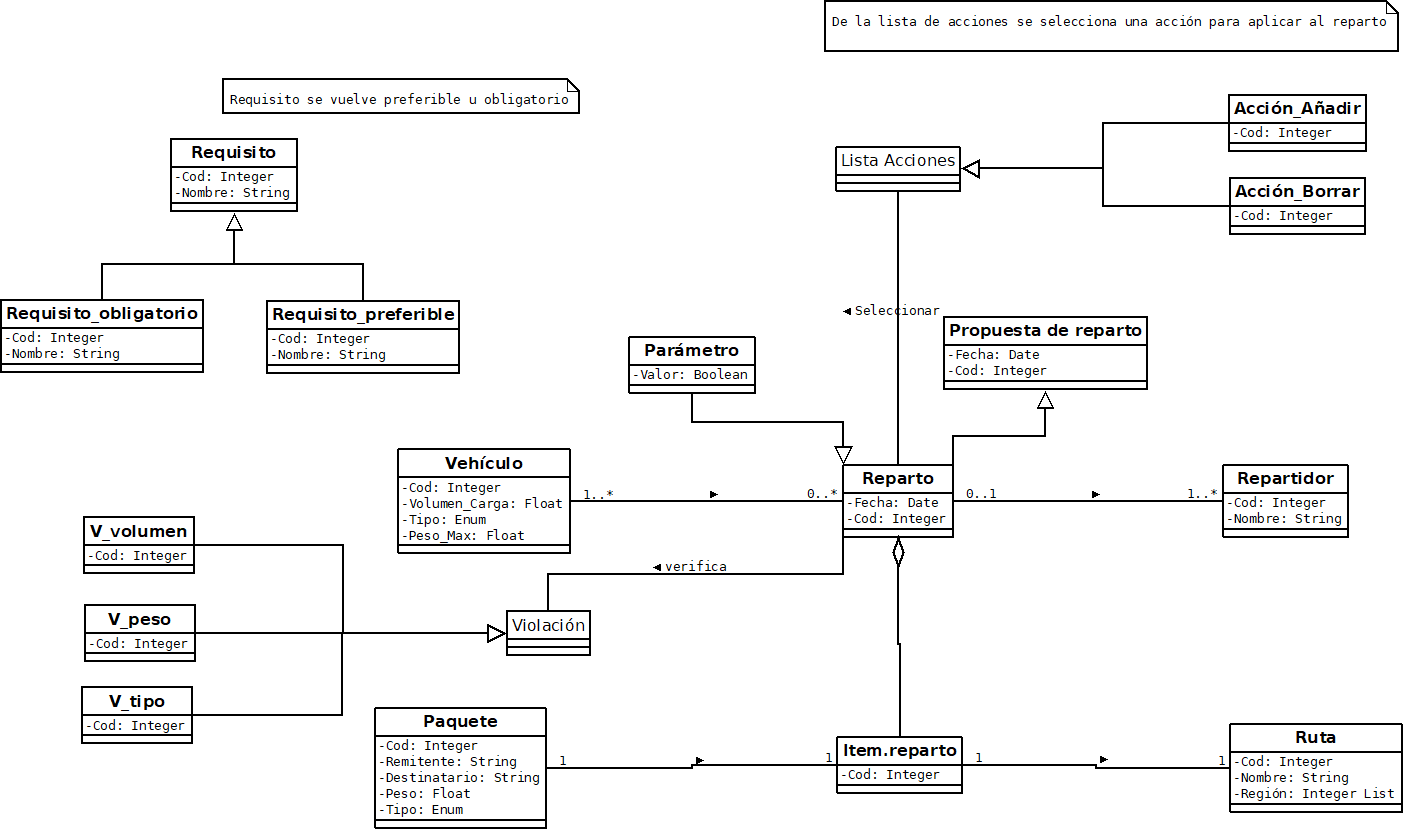
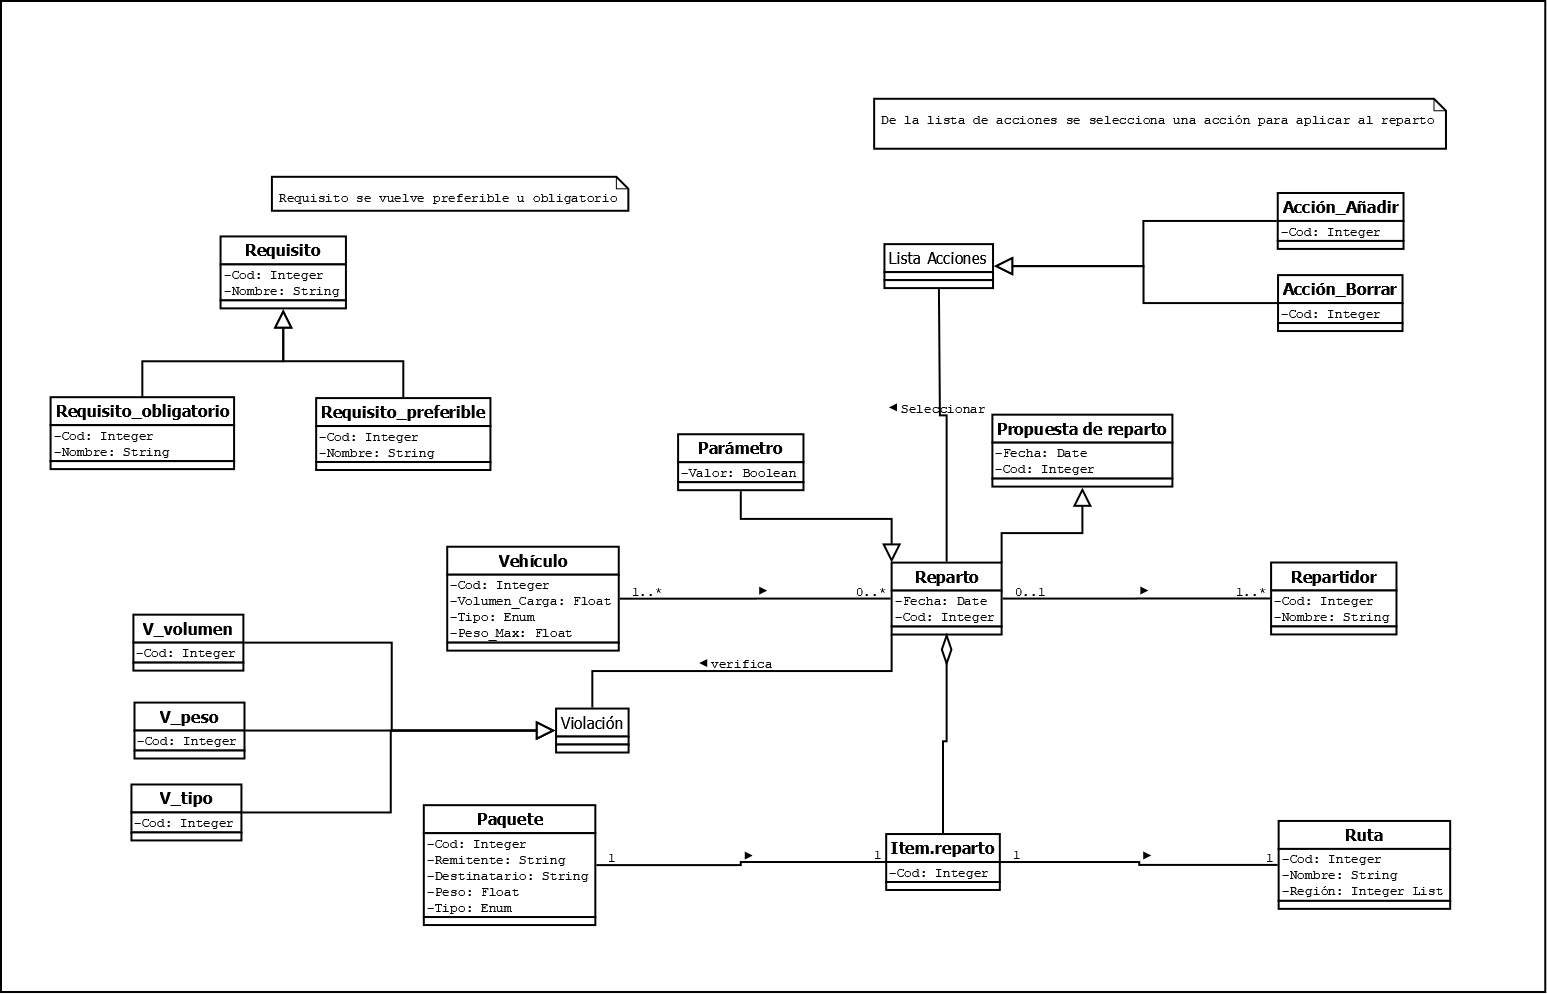
....

diff --git a/contido/Tema_3.tex b/contido/Tema_3.tex
@@ -372,34 +372,33 @@ La Figura \ref{fig:DisenoModificarDiseno} muestra el mapeo de la inferencia \tex
 
 \subsection{Base de conocimiento}
 
-\begin{lstlisting}[language=C,caption=\textbf{Regla de abstraccion}]
+\begin{lstlisting}[language=C,caption=\textbf{Regla\_de\_Traslación}]
   EXPRESSIONS:
-    MercadoForex.Activo.EscenarioActivo.Resistencia.ultimoValor > max(MercadoForex.Activo.EscenarioActivo.Resistencia.historicoDatos) AND MercadoForex.Activo.EscenarioActivo.Resistencia.intentosRuptura > 3
-  Abstraemos
-    MercadoForex.Activo.EscenarioActivo.Resistencia.valorAbstraido = Fuerte
-  END KNOWLEDGE-BASE dependencia-estado;
-  
+    Requisito == Tipo_Requisito_preferible
+  RESULTA_EN:
+    Requisito_preferible
+  END KNOWLEDGE-BASE Regla-translación;
+    
   EXPRESSIONS:
-    MercadoForex.Activo.EscenarioActivo.Resistencia.ultimoValor > max(MercadoForex.Activo.EscenarioActivo.Resistencia.historicoDatos) AND MercadoForex.Activo.EscenarioActivo.Resistencia.intentosRuptura <= 3
-  Abstraemos
-    MercadoForex.Activo.EscenarioActivo.Resistencia.valorAbstraido = Debil
-  END KNOWLEDGE-BASE dependencia-estado;
+    Requisito == Tipo_Requisito_obrigatorio
+  RESULTA_EN:
+    Requisito_obligatorio
+  END KNOWLEDGE-BASE Regla_de_translación;
 \end{lstlisting}
 
 
-\begin{lstlisting}[language=C,caption=\textbf{Regla de abstraccion}]
+\begin{lstlisting}[language=C,caption=\textbf{Regla\_de\_Verificación}]
   EXPRESSIONS:
-    MercadoForex.Activo.valorActual > MercadoForex.Activo.EscenarioActivo.Resistencia.ultimoValor AND MercadoForex.Activo.EscenarioActivo.Resistencia.valorAbstraido = Fuerte
-  CONDICIONA-A
-    Hypothesis = {Ajustar_Riesgo, CerrarOperativa, NoHacerNada}
-  END KNOWLEDGE-BASE dependencia-estado;
-    
+   Reparto.Fecha == fecha_actual AND Reparto.Repartidor.Cod == 1 AND Reparto.Vehiculo.Cod == 1 AND Reparto.pesototal <= Vehiculo.peso_max AND Parametro.valor == false AND Requisitos_obligatorios == Peso
+  RESULTA EN:
+   V_peso 
+  END KNOWLEDGE-BASE Regla_de_Verificación;
+  
   EXPRESSIONS:
-    MercadoForex.Activo.valorActual > MercadoForex.Activo.EscenarioActivo.Resistencia.ultimoValor
-    AND MercadoForex.Activo.EscenarioActivo.Resistencia.valorAbstraido = Debil
-  CONDICIONA-A
-    Hypothesis = {CerrarOperativa, NoHacerNada}
-  END KNOWLEDGE-BASE dependencia-estado;
+   reparto.fecha == fecha_actual and reparto.repartidor.cod == 1 and reparto.vehiculo.cod == 1 and reparto.volumentotal <= vehiculo.volumen_carga and parametro.valor == false and requisitos_obligatorios == Volumen
+  RESULTA EN:
+   V_Volumen 
+  END KNOWLEDGE-BASE Regla_de_Verificación;
 \end{lstlisting}
     
 \begin{lstlisting}[language=C,caption=\textbf{Regla de abstraccion}]
@@ -436,6 +435,6 @@ Ahora que ya tenemos avanzado en el desarrollo de nuestro sistema inteligente, p
 
 \begin{figure}[H]
   \centering
-  \includegraphics[scale=0.50]{imaxes/DiagramaInicialDominio.png}
+  \includegraphics[scale=0.25,angle=90]{imaxes/Diagrama_Dominio_Completo.png}
   \caption{\label{fig:DominioCompleto}Esquema completo del dominio}
 \end{figure}
